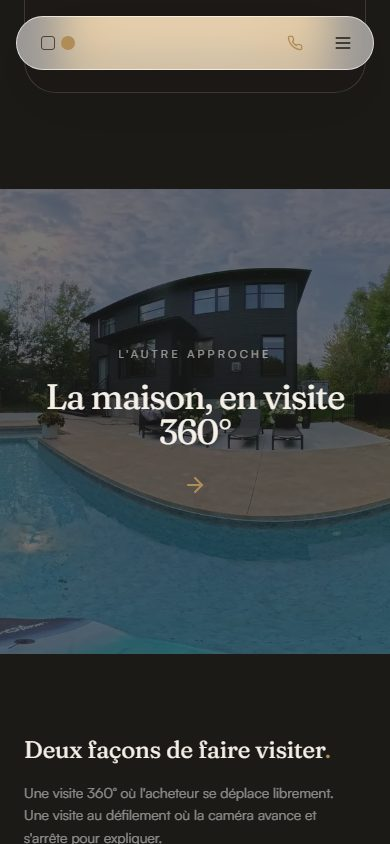
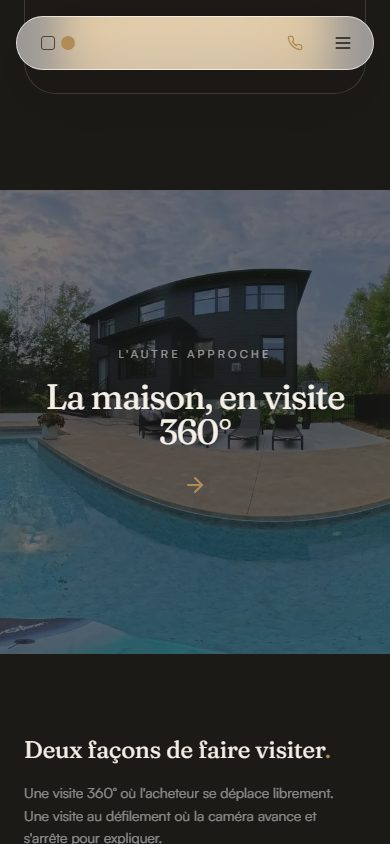
Accueil : reprendre l'image de fond de la version d'origine
La photo de cuisine héritée de la version précédente est chargée, et elle
servait déjà à présenter une propriété : en fond d'accueil, elle laissait
croire qu'on annonçait ce bien-là, alors que la page ne fait que proposer un
choix entre deux approches.

Retour à l'image d'ambiance de la toute première version du dépôt (70dea97),
mais servie EN LOCAL depuis public/photos/ au lieu d'être pointée chez
Unsplash : pas de dépendance à un hébergeur tiers, pas de `remotePatterns` à
rouvrir dans next.config, et rien qui casse si le lien change.

`alt=""` : l'image est décorative, elle n'annonce rien. Le bas du voile est
plus appuyé qu'à l'origine (ink/70 au lieu de ink/50) — ce plancher est clair
et l'indice « défiler » s'y perdait.

Changed region(s): [[0.2769, 0.955, 0.8, 0.9858], [0.0923, 0.955, 0.2462, 0.9858], [0.0615, 0.4005, 0.1231, 0.4313]]

diff --git a/components/sections/Hero.tsx b/components/sections/Hero.tsx
@@ -35,9 +35,13 @@ export default function Hero() {
         suppressHydrationWarning
         className="absolute inset-0 scale-[1.08]"
       >
+        {/* Image d'ambiance, volontairement neutre : l'accueil n'annonce aucune
+            propriété, il fait choisir entre deux approches. Une photo de la
+            maison ou de l'appartement y aurait fait croire qu'on présente ce
+            bien-là. Servie en local — pas de dépendance à un hébergeur tiers. */}
         <Image
-          src="/photos/cuisine-evier.jpg"
-          alt="Cuisine à îlot ouverte sur la salle à manger et la cour"
+          src="/photos/accueil-hero.jpg"
+          alt=""
           fill
           priority
           sizes="100vw"
@@ -45,8 +49,10 @@ export default function Hero() {
           placeholder="blur"
           blurDataURL={BLUR_DATA_URL}
         />
+        {/* Le bas est plus appuyé que dans la version d'origine : cette image a
+            un plancher clair, et l'indice « défiler » s'y perdait. */}
         <div
-          className="absolute inset-0 bg-gradient-to-t from-ink/50 via-ink/10 to-ink/25"
+          className="absolute inset-0 bg-gradient-to-t from-ink/70 via-ink/10 to-ink/25"
           aria-hidden
         />
       </motion.div>
